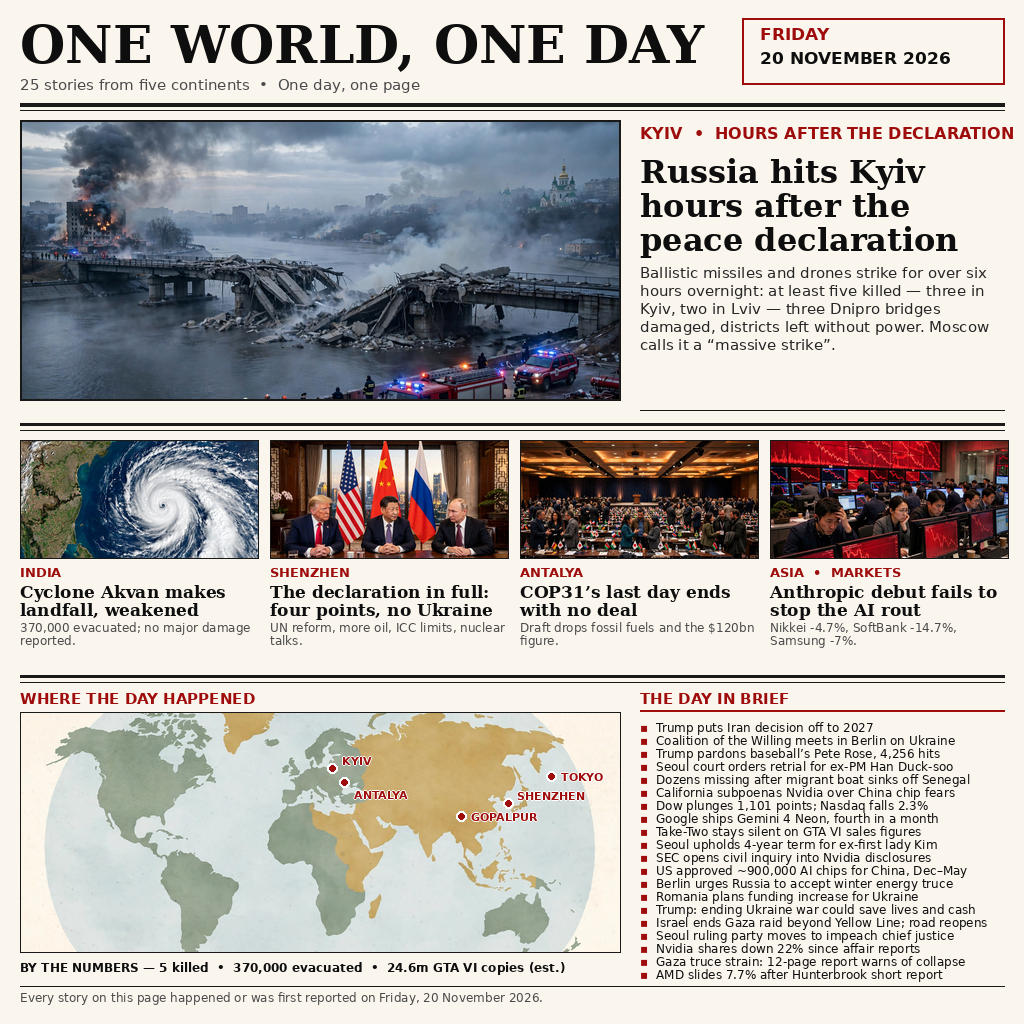
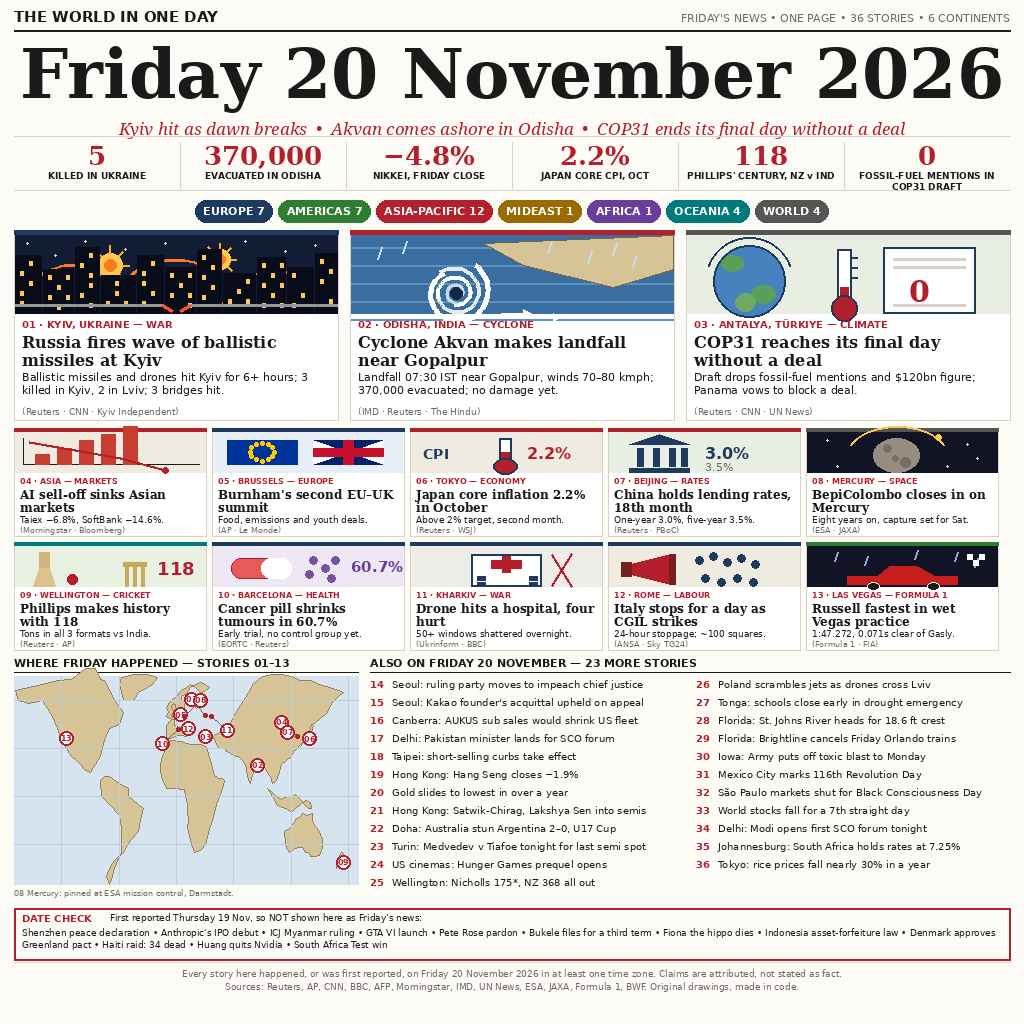
news-image-20261120 v3: THE FRIDAY PAPER — 36 stories, Friday 20 November 2026

diff --git a/main.py b/main.py
@@ -1,55 +1,42 @@
 #!/usr/bin/env python3
-"""news-image-20261120 v2 entry point.
+"""news-image-20261120 v3 entrypoint.
 
-Copies the v2 front page (entry.png, 1024x1024, "ONE WORLD, ONE DAY"
-for Friday 20 November 2026) into the harness output directory and
-proves the copy is byte-identical to the source before exiting.
-25 stories on the page: 1 lead (Kyiv) + 4 photo panels (Akvan,
-Shenzhen, COP31, AI rout) + 20 one-line briefs.
-
-Pure Python 3.13 standard library; no network, no third-party
-packages. Deterministic: the same entry.png bytes are produced on
-every run, so the emitted file's sha256 never changes.
+Copies the front-page image (entry.png, built in-session by
+build_frontpage_v3.py) to the output directory and verifies the copy is
+byte-identical to the source. Standard library only.
 """
 import hashlib
 import os
+import shutil
 import sys
-from pathlib import Path
 
 
-def pick_output_folder():
-    """Harness output dir, or /output when the variable is unset."""
-    chosen = os.environ.get("MAKEFUN_OUTPUT_DIR", "").strip()
-    if not chosen:
-        chosen = "/output"
-    return Path(chosen)
+def sha256(path):
+    h = hashlib.sha256()
+    with open(path, "rb") as fh:
+        for chunk in iter(lambda: fh.read(65536), b""):
+            h.update(chunk)
+    return h.hexdigest()
 
 
-def fingerprint(blob):
-    return hashlib.sha256(blob).hexdigest()
-
-
-def emit_entry():
-    here = Path(__file__).resolve().parent
-    source_path = here / "entry.png"
-    payload = source_path.read_bytes()
-    print(f"source: {source_path} ({len(payload)} bytes, "
-          f"sha256 {fingerprint(payload)})")
-
-    target_dir = pick_output_folder()
-    target_dir.mkdir(parents=True, exist_ok=True)
-    target_path = target_dir / "entry.png"
-    target_path.write_bytes(payload)
-
-    echoed = target_path.read_bytes()
-    if echoed != payload:
-        print(f"ERROR: {target_path} does not match {source_path}",
-              file=sys.stderr)
+def main():
+    here = os.path.dirname(os.path.abspath(__file__))
+    src = os.path.join(here, "entry.png")
+    out_dir = os.environ.get("MAKEFUN_OUTPUT_DIR") or "/output"
+    os.makedirs(out_dir, exist_ok=True)
+    dst = os.path.join(out_dir, "entry.png")
+    shutil.copyfile(src, dst)
+    src_hash = sha256(src)
+    dst_hash = sha256(dst)
+    if src_hash != dst_hash:
+        print("ERROR: copied bytes differ from source", file=sys.stderr)
+        print("source %s" % src_hash, file=sys.stderr)
+        print("copy   %s" % dst_hash, file=sys.stderr)
         return 1
-    print(f"emitted: {target_path} ({len(echoed)} bytes, "
-          f"sha256 {fingerprint(echoed)}) — verified identical")
+    print("copied %s -> %s (%d bytes) sha256=%s"
+          % (src, dst, os.path.getsize(dst), dst_hash))
     return 0
 
 
 if __name__ == "__main__":
-    sys.exit(emit_entry())
+    raise SystemExit(main())
